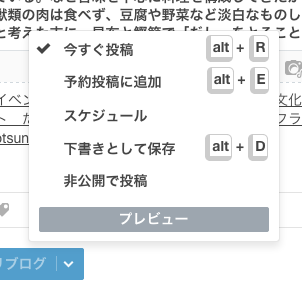
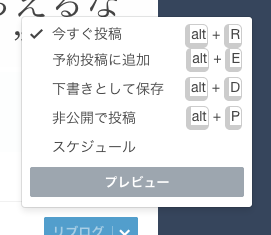
README更新

diff --git a/README.md b/README.md
@@ -13,7 +13,13 @@
 * [Tampermonkey - Chrome ウェブストア](https://chrome.google.com/webstore/detail/tampermonkey/dhdgffkkebhmkfjojejmpbldmpobfkfo?hl=ja)
 * [Greasemonkey :: Add-ons for Firefox](https://addons.mozilla.org/ja/firefox/addon/greasemonkey/) ※動作未確認
 
+## アンインストール
+
+それぞれの拡張のヘルプを参照してください。
+
 ## ショートカットキーの一覧
+
+### 投稿フォームで有効なショートカットキー
 
 <table>
   <tr>
@@ -36,23 +42,27 @@
     <td><tt>alt + D</tt></td>
     <td>下書きに追加</td>
   </tr>
+  <tr>
+    <td><tt>alt + P</tt></td>
+    <td>非公開で投稿</td>
+  </tr>
 </table>
 
 ## 機能の詳細
 
 ### ブログの選択
 
-ブログが複数有る場合に `alt + [数字キー]` で、`[数字キー]` で指定したブログに切り替えることができます。
+ブログが複数有る場合は `alt + [数字キー]` で、`[数字キー]` で指定したブログに切り替えることができます。
 
-ブログが数字キーのどれに割り当てられているか？は、リストを表示することでショートカットキーが末尾に表示されるのため確認することが出来ます。
+数字キーとブログの対応付けについては、投稿フォームのブログ一覧に表示されているので、一覧を表示することで確認することが出来ます。
 
 ![ブログの選択](https://raw.githubusercontent.com/sharkpp-userscripts/tumblr-extend-shortcut-key/master/img/blog-select.png)
 
 ## 投稿指示
 
-投稿指示は、「今すぐ投稿」と「予約投稿に追加」と「下書きに追加」に、それぞれショートカットキーが新たに割り当てられています。
+投稿指示は、「今すぐ投稿」と「予約投稿に追加」「下書きに追加」と「非公開で投稿」に、それぞれショートカットキーが割り当てられています。
 
-ブログの選択と同じように、リストを表示することでショートカットキーの確認が出来ます。
+ブログの選択と同じように、一覧を表示することでショートカットキーの確認が出来ます。
 
 ![リブログボタン](https://raw.githubusercontent.com/sharkpp-userscripts/tumblr-extend-shortcut-key/master/img/reblog-button.png)
 
@@ -60,7 +70,7 @@
 
 The MIT License (MIT)
 
-Copyright (c) 2014 sharkpp.
+Copyright (c) 2014-2015 sharkpp.
 
 Permission is hereby granted, free of charge, to any person obtaining a copy
 of this software and associated documentation files (the "Software"), to deal
